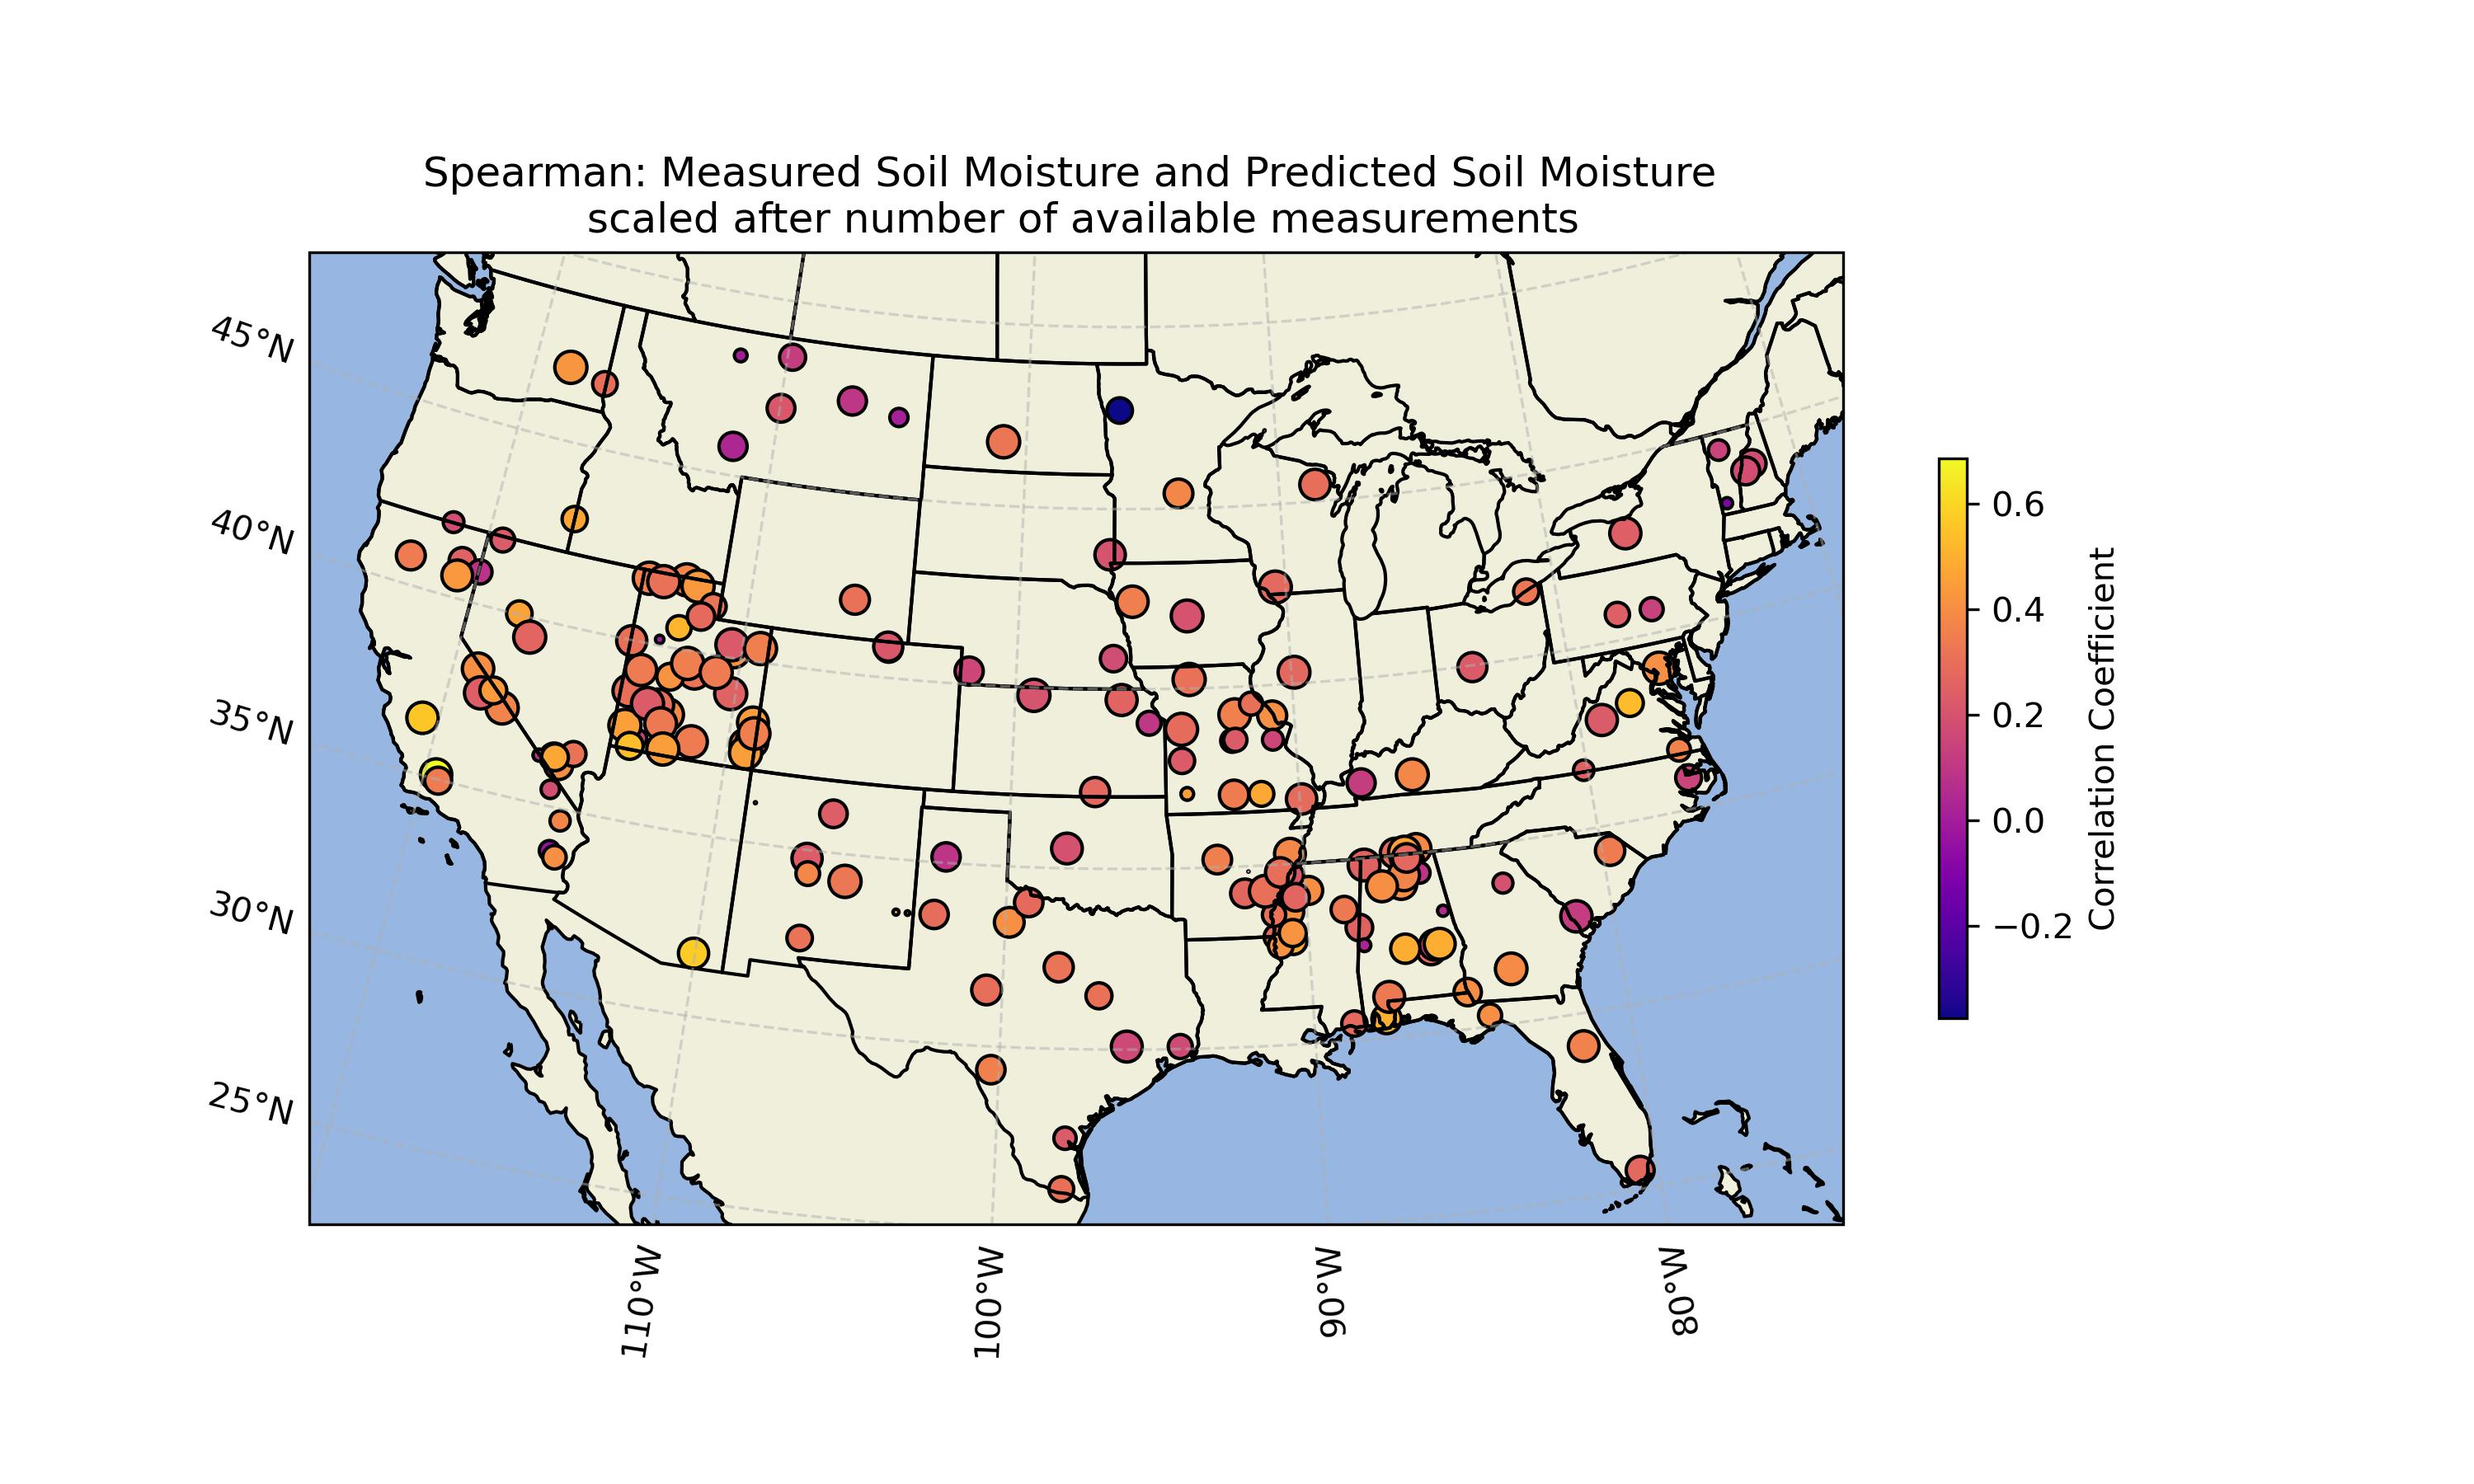
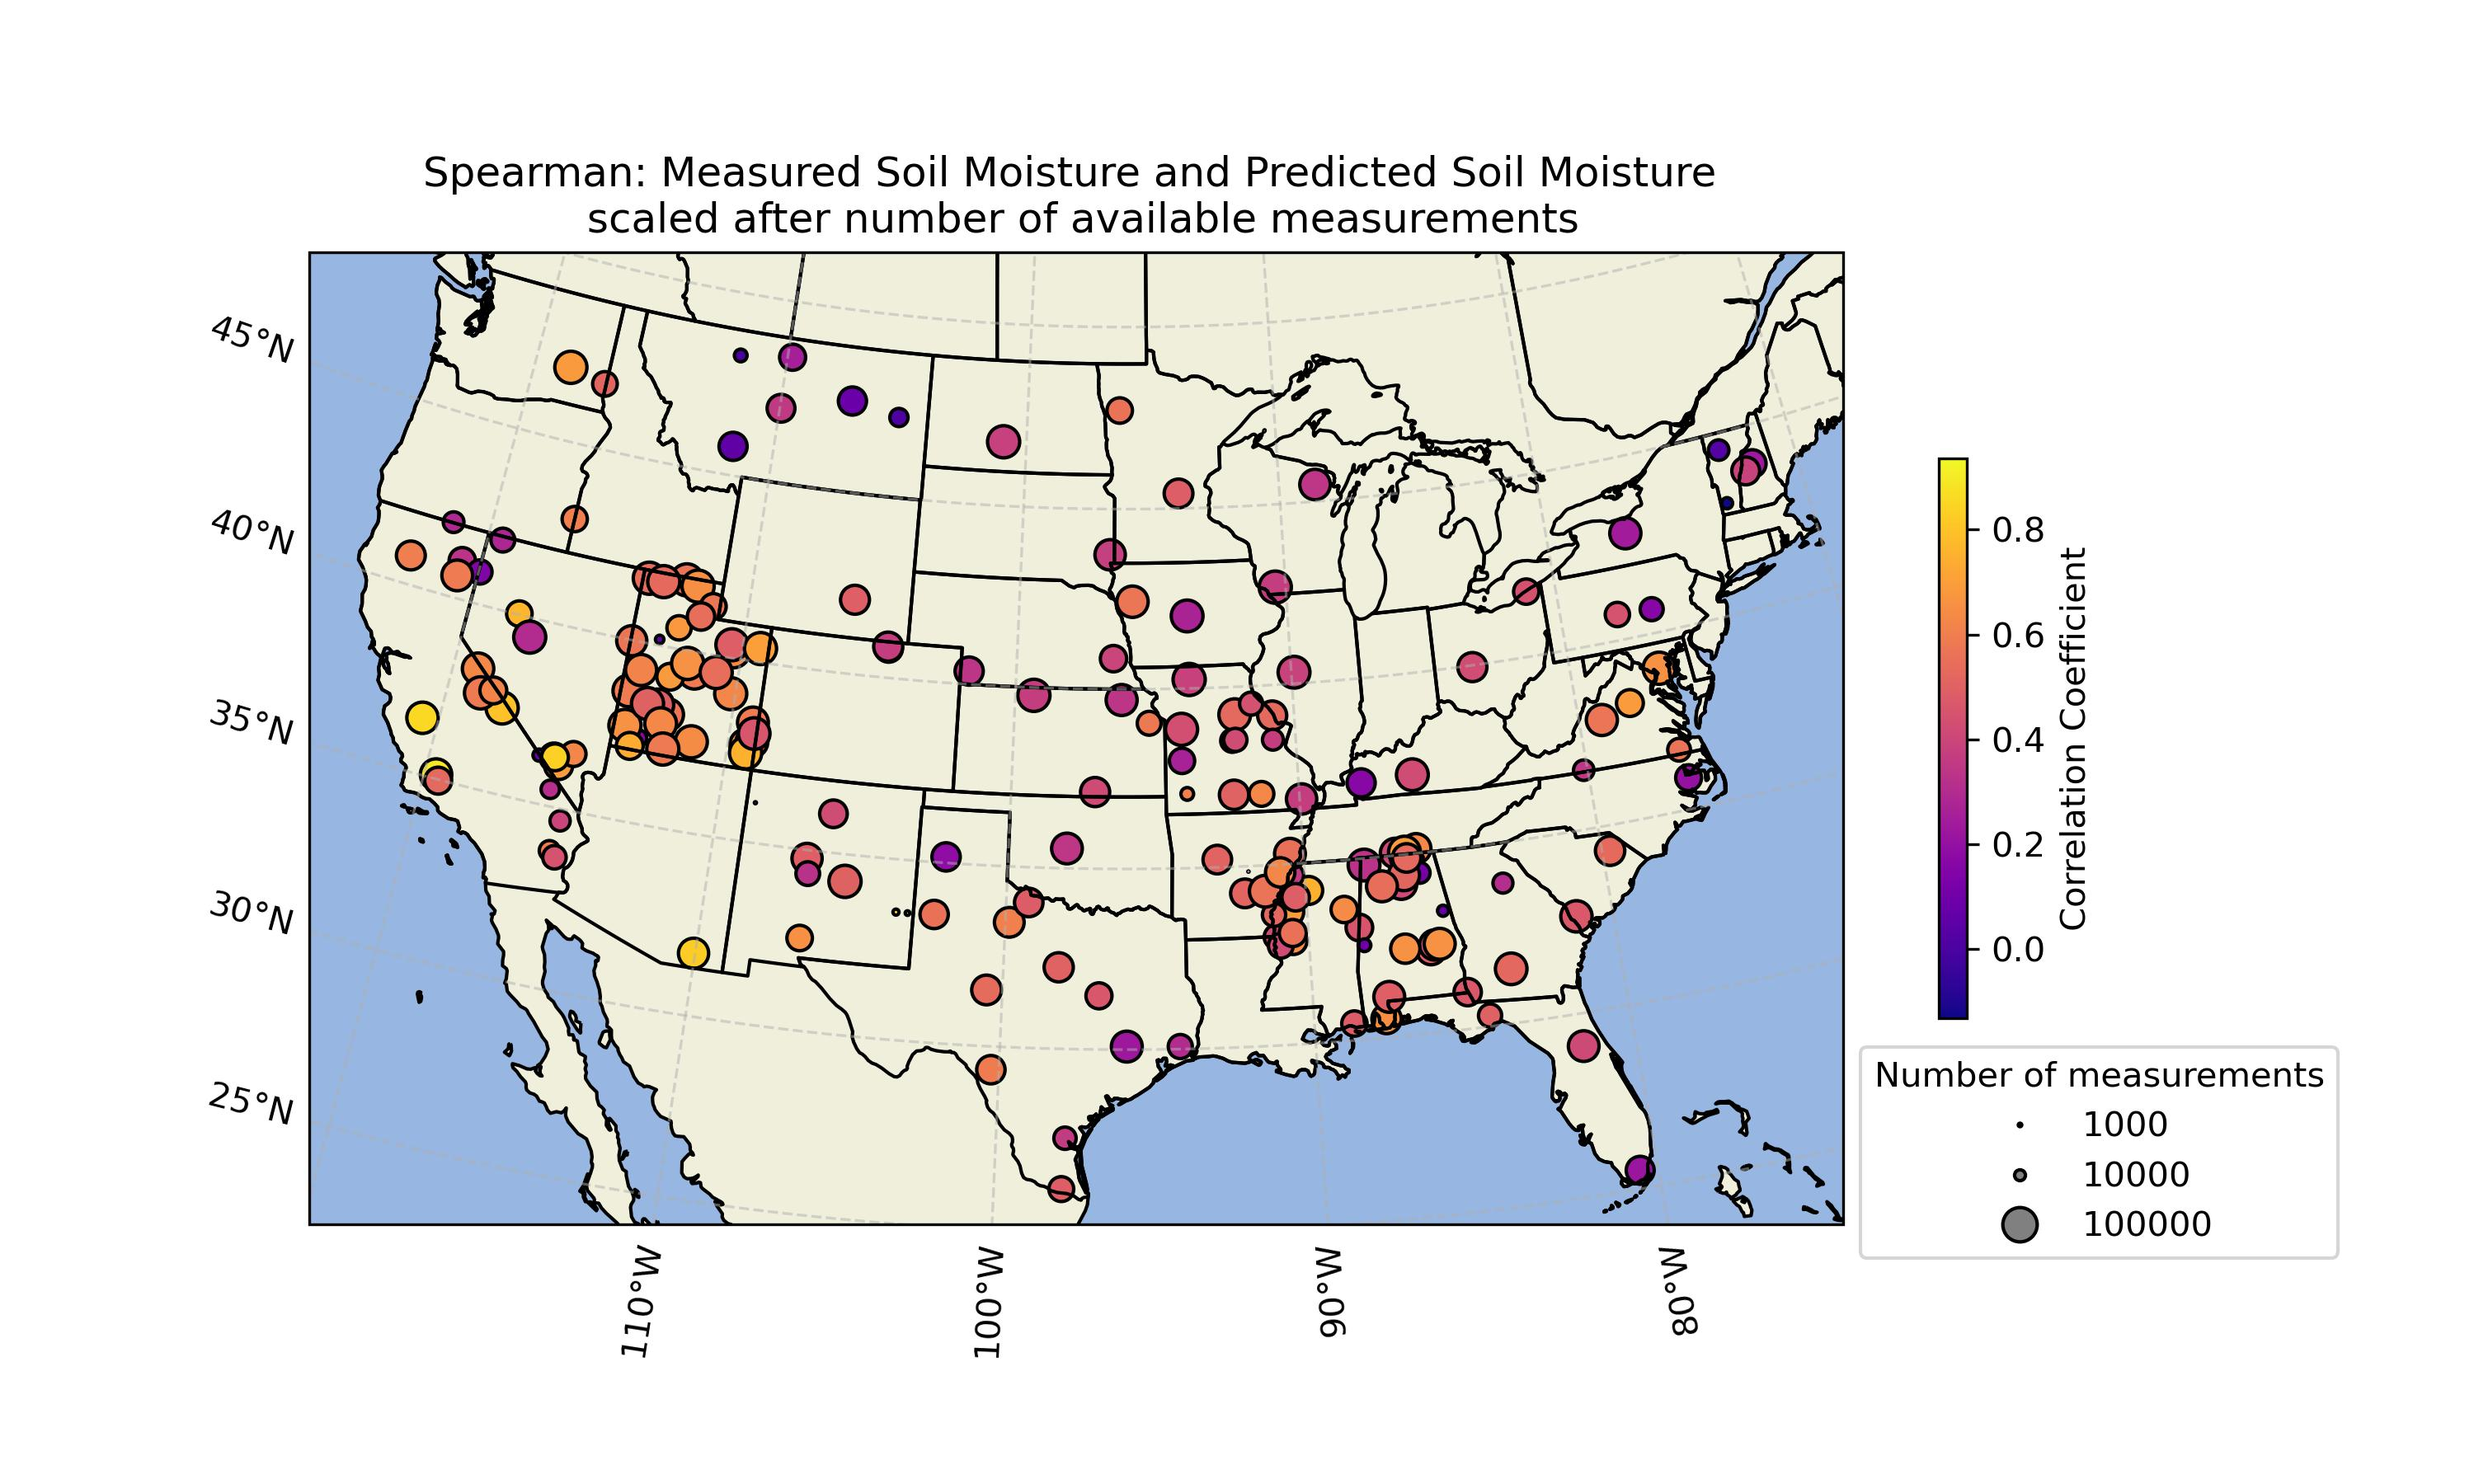
Funktionen zusammengeführt u geupdated

diff --git a/SoilMoisture.py b/SoilMoisture.py
@@ -48,7 +48,7 @@ def imput_missing(data, plott=False):
 
     available = data[~mask]
     #print("n_missing: ",n_missing)
-    print('n_missing [%]:', round((n_missing/len(data))*100,2))
+    print('n_missing[%]:', round((n_missing/len(data))*100,2))
     a, loc, scale = gamma.fit(available)
     gamma_sample = gamma.rvs(a, loc=loc, scale=scale, size=n_missing)
     #loc, scale = expon.fit(available)
@@ -66,54 +66,6 @@ def imput_missing(data, plott=False):
             plt.plot(x, pdf, 'r-', lw=2, label='Fitted Gamma PDF')
     
     return data_imputed, n
-
-# function to select sensors and filter data
-def station_filtered(station_nam):
-
-    station = ismn_data['SCAN'][station_nam]
-    
-    sens = station.sensors
-    
-    target_string = "precipitation"
-    prec_sensor = [sensor for sensor in sens if target_string in sensor][-1] #changed from 0 to -1 to have pulse count pc sensor (newer data)
-    
-    target_string = "soil_moisture"
-    sm_sensor = [sensor for sensor in sens if target_string in sensor][0]
-
-    sensor_sm = ismn_data['SCAN'][station_nam][sm_sensor] #sm sensors are usually second to last
-    sensor_pc = ismn_data['SCAN'][station_nam][prec_sensor] #precipitation sensor is usually first
-
-    #get lon lat from station:
-    lon, lat = sensor_sm.metadata.to_dict()['longitude'][0][0], sensor_sm.metadata.to_dict()['latitude'][0][0]
-    #if number not as the first entry: use filter np.array(df_2["lon"].values[0][0])[np.array(df_2["lon"].values[0][0]) != None][0] .values[0][0][0]
-
-    #pc_insight = sensor_pc.data.precipitation
-    
-    sm_filter = sensor_sm.data.soil_moisture[sensor_sm.data.soil_moisture >= 0]
-    pc_filter = sensor_pc.data.precipitation[sensor_pc.data.precipitation >= 0]#[sensor_pc.data.precipitation < 100]
-    
-    # imput missing hourly values
-    start_date = sm_filter.index.min()
-    end_date = pc_filter.index.max()
-    common_index = pd.date_range(start_date, end_date, freq="h")
-    
-    
-    pc_filter_unimputed = pc_filter.reindex(common_index)
-    #print(station_nam)
-    #print("sm")
-    sm_filter, n_sm = imput_missing(sm_filter.reindex(common_index))
-    #print("pc")
-    pc_filter, n_pc = imput_missing(pc_filter.reindex(common_index))
-    #pc_filter, n_pc = syn_pc_gamma(pc_filter.reindex(common_index)), 0 # activate for synthetic precipitation
-    
-    #sm_filter = sm_filter.resample("D").mean()
-    #pc_filter = pc_filter.resample("D").sum()
-    
-    df_filter = pd.DataFrame({"sm": sm_filter.values, "pc": pc_filter.values, "pc_unimputed": pc_filter_unimputed.values}, index=common_index)
-
-    #return sm_filter, pc_filter, pc_filter_unimputed, lon, lat, n_sm, n_pc
-    return df_filter, lon, lat, n_sm, n_pc
-
 
    
 #sm, pc, lon, lat = station_filtered(station_nam)
@@ -209,12 +161,65 @@ def loss(lam, sm, pc):
     correlation = spearmanr(sm_pred, sm)[0]
     return 1 - correlation
 
-# Function to optimise loss factor and calculate predictions in one step
-def sm_prediction(station_nam):
+# Function to select sensor, filter data, optimise loss factor and calculate predictions in one step
+def sm_prediction(station_nam, precipitation=None):
+    '''
+    precipitation parameter: if None, measured imputed precipitation data is used to predict soil moisture,
+    else defined precipitation is used instead
+    '''
+    
     print(station_nam)
-    #sm, pc, pc_unimputed, lon, lat, n_sm, n_pc = station_filtered(station_nam)
-    df_filter, lon, lat, n_sm, n_pc = station_filtered(station_nam)
-    pc = df_filter["pc"].values
+    
+    station = ismn_data['SCAN'][station_nam]
+    
+    sens = station.sensors
+    
+    target_string = "precipitation"
+    prec_sensor = [sensor for sensor in sens if target_string in sensor][-1] #changed from 0 to -1 to have pulse count pc sensor (newer data)
+    
+    target_string = "soil_moisture"
+    sm_sensor = [sensor for sensor in sens if target_string in sensor][0]
+
+    sensor_sm = ismn_data['SCAN'][station_nam][sm_sensor] #sm sensors are usually second to last
+    sensor_pc = ismn_data['SCAN'][station_nam][prec_sensor] #precipitation sensor is usually first
+
+    #get lon lat from station:
+    lon, lat = sensor_sm.metadata.to_dict()['longitude'][0][0], sensor_sm.metadata.to_dict()['latitude'][0][0]
+    #if number not as the first entry: use filter np.array(df_2["lon"].values[0][0])[np.array(df_2["lon"].values[0][0]) != None][0] .values[0][0][0]
+
+    #pc_insight = sensor_pc.data.precipitation
+    
+    sm_filter = sensor_sm.data.soil_moisture[sensor_sm.data.soil_moisture >= 0]
+    pc_filter = sensor_pc.data.precipitation[sensor_pc.data.precipitation >= 0]#[sensor_pc.data.precipitation < 100]
+    
+    # imput missing hourly values
+    start_date = sm_filter.index.min()
+    end_date = pc_filter.index.max()
+    common_index = pd.date_range(start_date, end_date, freq="h")
+    
+    
+    pc_filter_unimputed = pc_filter.reindex(common_index)
+    #print(station_nam)
+    #print("sm")
+    sm_filter, n_sm = imput_missing(sm_filter.reindex(common_index))
+    #print("pc")
+    pc_filter, n_pc = imput_missing(pc_filter.reindex(common_index))
+    #pc_filter, n_pc = syn_pc_gamma(pc_filter.reindex(common_index)), 0 # activate for synthetic precipitation
+    
+    #sm_filter = sm_filter.resample("D").mean()
+    #pc_filter = pc_filter.resample("D").sum()
+    
+    df_filter = pd.DataFrame({"sm": sm_filter.values, "pc": pc_filter.values, "pc_unimputed": pc_filter_unimputed.values}, index=common_index)
+    
+    
+    # eigentliche Funktion
+    
+    #df_filter, lon, lat, n_sm, n_pc = station_filtered(station_nam)
+    if precipitation is None:
+        pc = df_filter["pc"].values
+    else:
+        pc = precipitation.values
+        df_filter['pc'] = precipitation
     sm = df_filter["sm"].values
     #df_aligned = align_timestamps(sm, pc, pc_unimputed)
 
@@ -682,54 +687,20 @@ df_0_refilled = pd.concat([ds for ds in ds_0_refilled_l], axis=1)
 df_0_refilled.plot()
 
 #%%
-# change sm_prediction function to use on refilled pc dataframes
-def sm_prediction_refilled(station_nam, pc_refilled):
-    print(station_nam)
-    df_filter, lon, lat, n_sm, n_pc = station_filtered(station_nam)
-    #pc = df_filter["pc"].values
-    pc = pc_refilled.values
-    sm = df_filter["sm"].values
-
-    initial_guess = [0.8] # expecting high values for lamda (hourly changes)
-    result = minimize(loss, initial_guess, args=(sm, pc), bounds=[(0, 1)], method="Nelder-Mead")
-    lam_opt = result.x[0]
-    print(round(lam_opt,2))
-
-    #sm_pred = api(df_filter["pc"], lam_opt)
-    sm_pred = api(pc_refilled, lam_opt)
-    df_filter['pc'] = pc_refilled
-    df_filter['sm_pred'] = sm_pred
-
-    corr_pearson = pearsonr(df_filter["sm"], sm_pred)
-    corr_spearman = spearmanr(df_filter["sm"], sm_pred)
-
-    rescaled_sm = rescale_sm(df_filter["sm"].values, df_filter["sm_pred"].values)
-    
-    rmse = np.sqrt(np.mean((rescaled_sm - df_filter["sm"].values)**2))
-    
-    df_filter["sm_pred_rescaled"] = rescaled_sm
-    
-    df_stations = pd.DataFrame({"station": [station_nam], "lon": [lon], "lat": [lat], "lamda": [lam_opt], "pearson": [corr_pearson], "spearman": [corr_spearman],"n_sm" : [n_sm], "n_pc" : [n_pc], "rmse": [rmse],
-                               "sm_pred_rescaled": [rescaled_sm], "sm_pred": [df_filter["sm_pred"].values], "sm": [df_filter["sm"].values]})
-
-
-    return df_filter, df_stations
-
-#%%
 # predict sm with refilled pc and get spearman correlations
 corr_gamma_l, corr_kNN_l, corr_0_l = [], [], []
 columns = df_gamma_refilled.columns
 
 for column in columns:
-    df_2_refilled = sm_prediction_refilled(station_nam, df_gamma_refilled[column])[1]
+    df_2_refilled = sm_prediction(station_nam, df_gamma_refilled[column])[1]
     corr = df_2_refilled["spearman"][0][0]
     corr_gamma_l.append(round(corr, 3))
 
-    df_2_refilled = sm_prediction_refilled(station_nam, df_kNN_refilled[column])[1]
+    df_2_refilled = sm_prediction(station_nam, df_kNN_refilled[column])[1]
     corr = df_2_refilled["spearman"][0][0]
     corr_kNN_l.append(round(corr, 3))
     
-    df_2_refilled = sm_prediction_refilled(station_nam, df_0_refilled[column])[1]
+    df_2_refilled = sm_prediction(station_nam, df_0_refilled[column])[1]
     corr = df_2_refilled["spearman"][0][0]
     corr_0_l.append(round(corr, 3))
 
